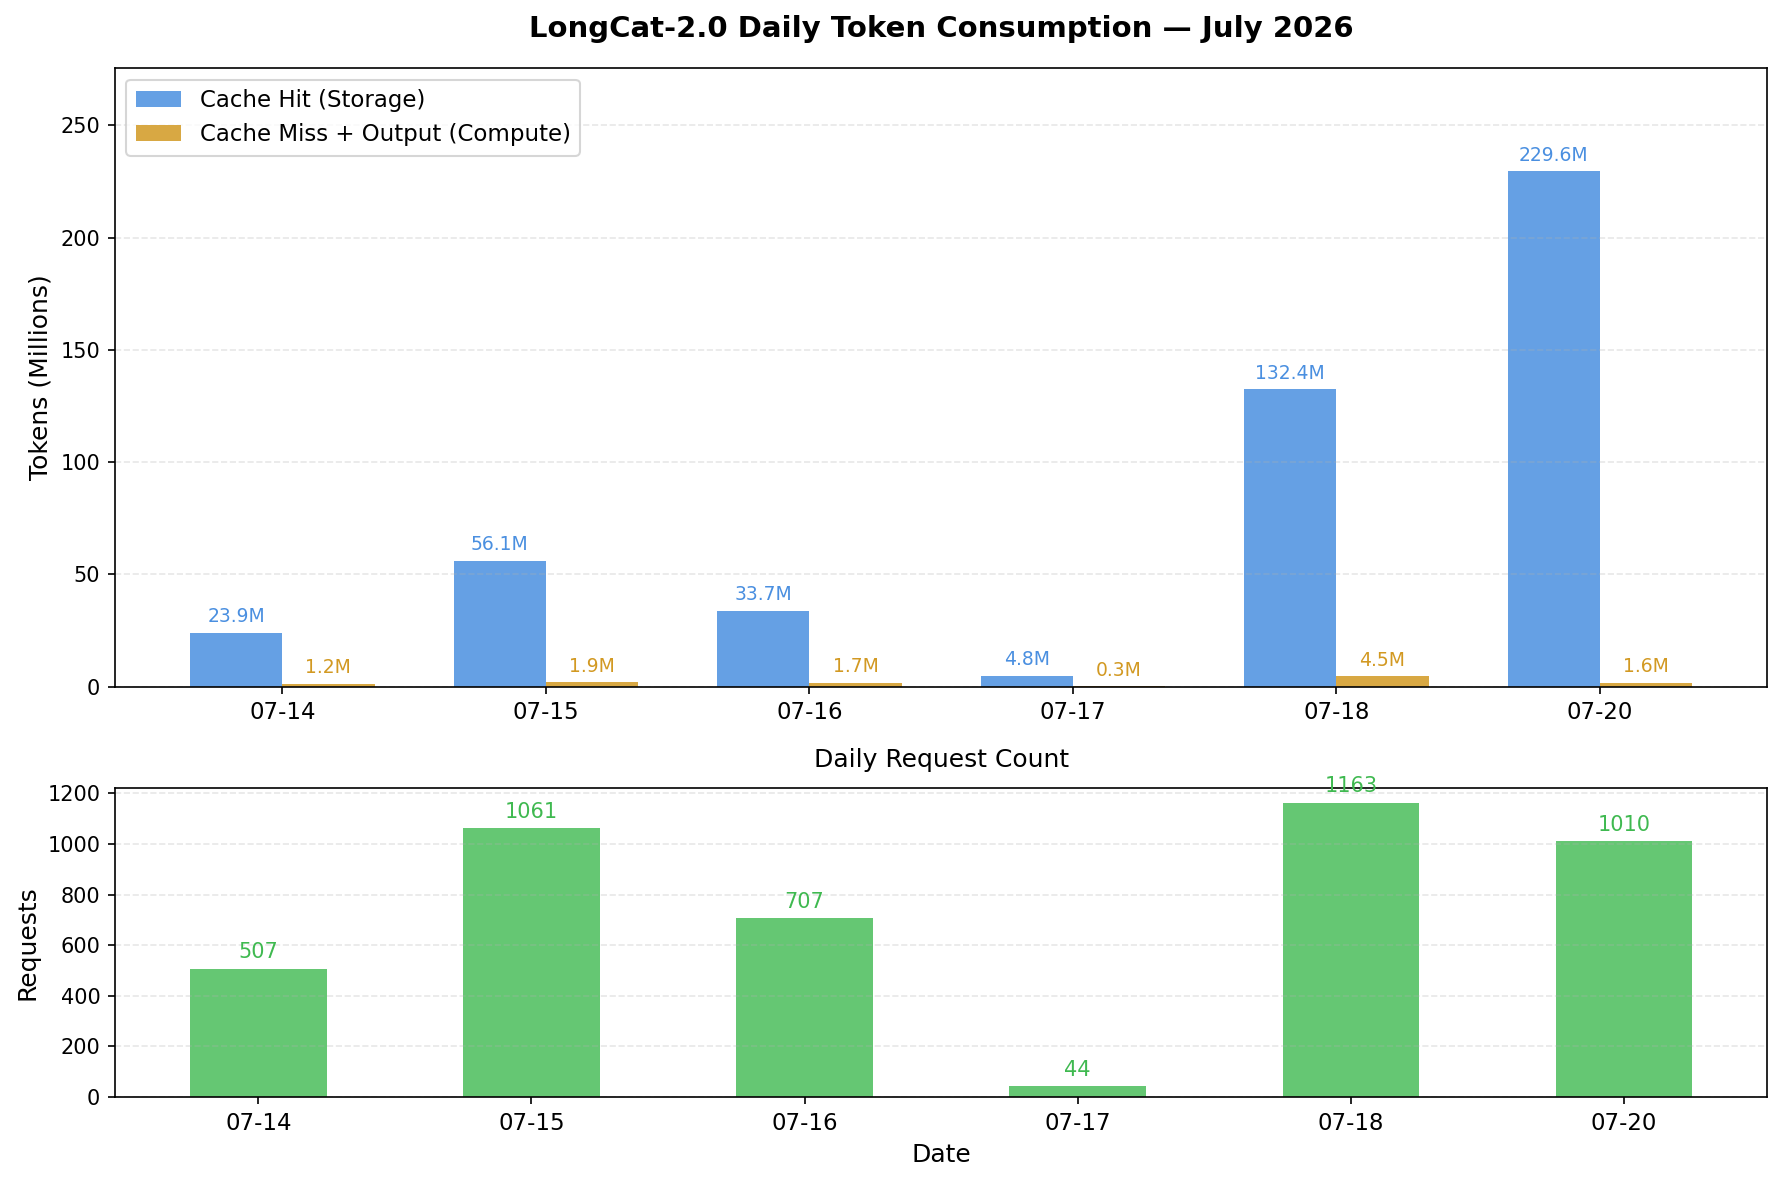
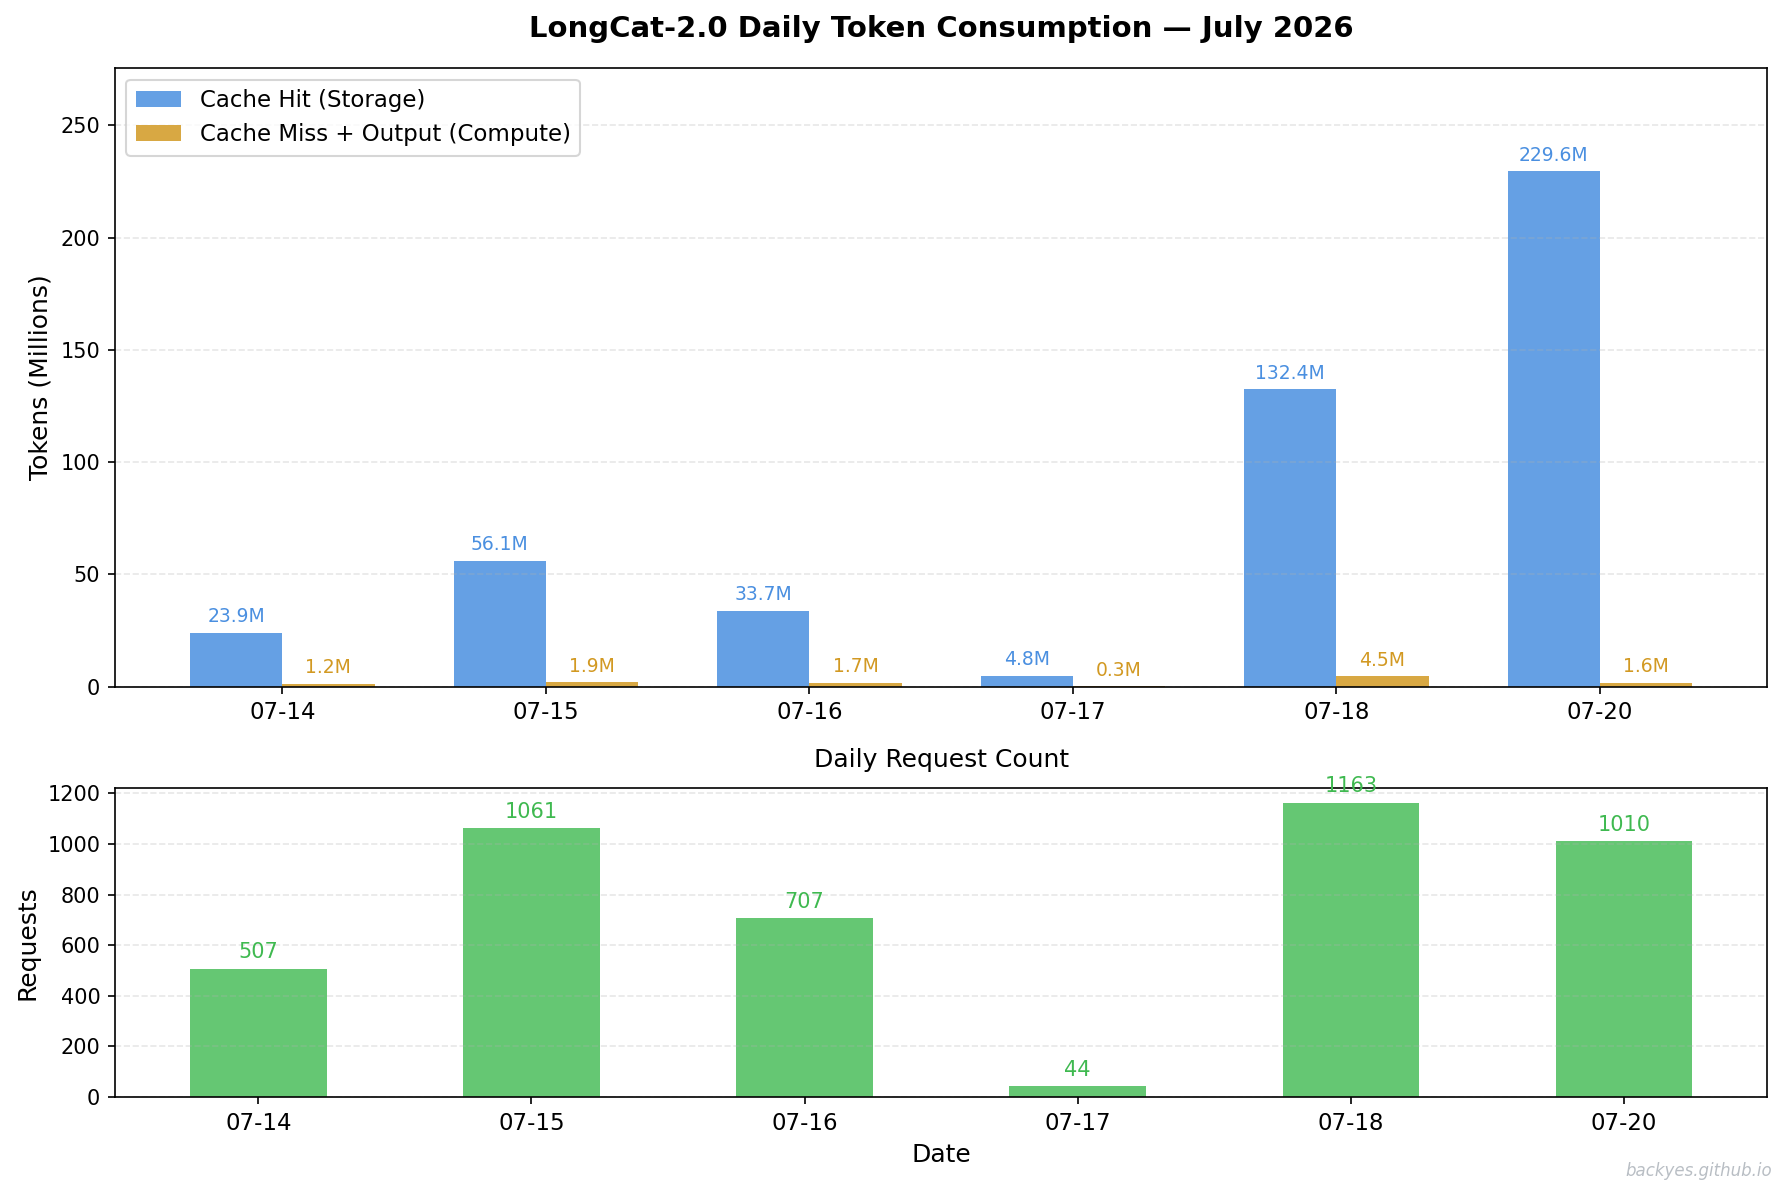
sync: 同步研究报告 + Posts/Tags/Search 全页重建 (17 个项目)
- 同步源: claude_workspace/* → backyes.github.io/
- 白名单: html + css + png/jpg/svg/webp/io (排除 md/txt/pdf/log/py 等原始素材)
- build_site.py: 重建 index / posts / tags / 单篇文章 / search DB
- Posts 源: posts/*.md (手写洞察)

diff --git a/posts/assets/gen_chart.py b/posts/assets/gen_chart.py
@@ -74,6 +74,8 @@ for i, v in enumerate(requests_list):
     ax2.annotate(str(v), xy=(i, v), xytext=(0, 5), textcoords='offset points', ha='center', fontsize=10, color='#3fb950')
 
 plt.tight_layout()
+fig.text(0.99, 0.01, 'backyes.github.io', fontsize=8, color='#8b949e',
+         ha='right', va='bottom', alpha=0.6, style='italic')
 plt.savefig('token_usage_july_2026.png', dpi=150, bbox_inches='tight')
 print("Chart saved to token_usage_july_2026.png")
 print(f"\nSummary:")

diff --git a/posts/assets/gen_daily_chart.py b/posts/assets/gen_daily_chart.py
@@ -67,5 +67,7 @@ for b in b3:
     if h>0.5: ax.annotate(f'${h:.0f}', xy=(b.get_x()+b.get_width()/2,h), xytext=(0,3), textcoords='offset points', ha='center', fontsize=8, color='#d29922')
 
 plt.tight_layout()
+fig.text(0.99, 0.01, 'backyes.github.io', fontsize=8, color='#8b949e',
+         ha='right', va='bottom', alpha=0.6, style='italic')
 plt.savefig('daily_cost_comparison.png', dpi=150, bbox_inches='tight')
 print("Chart saved: daily_cost_comparison.png")